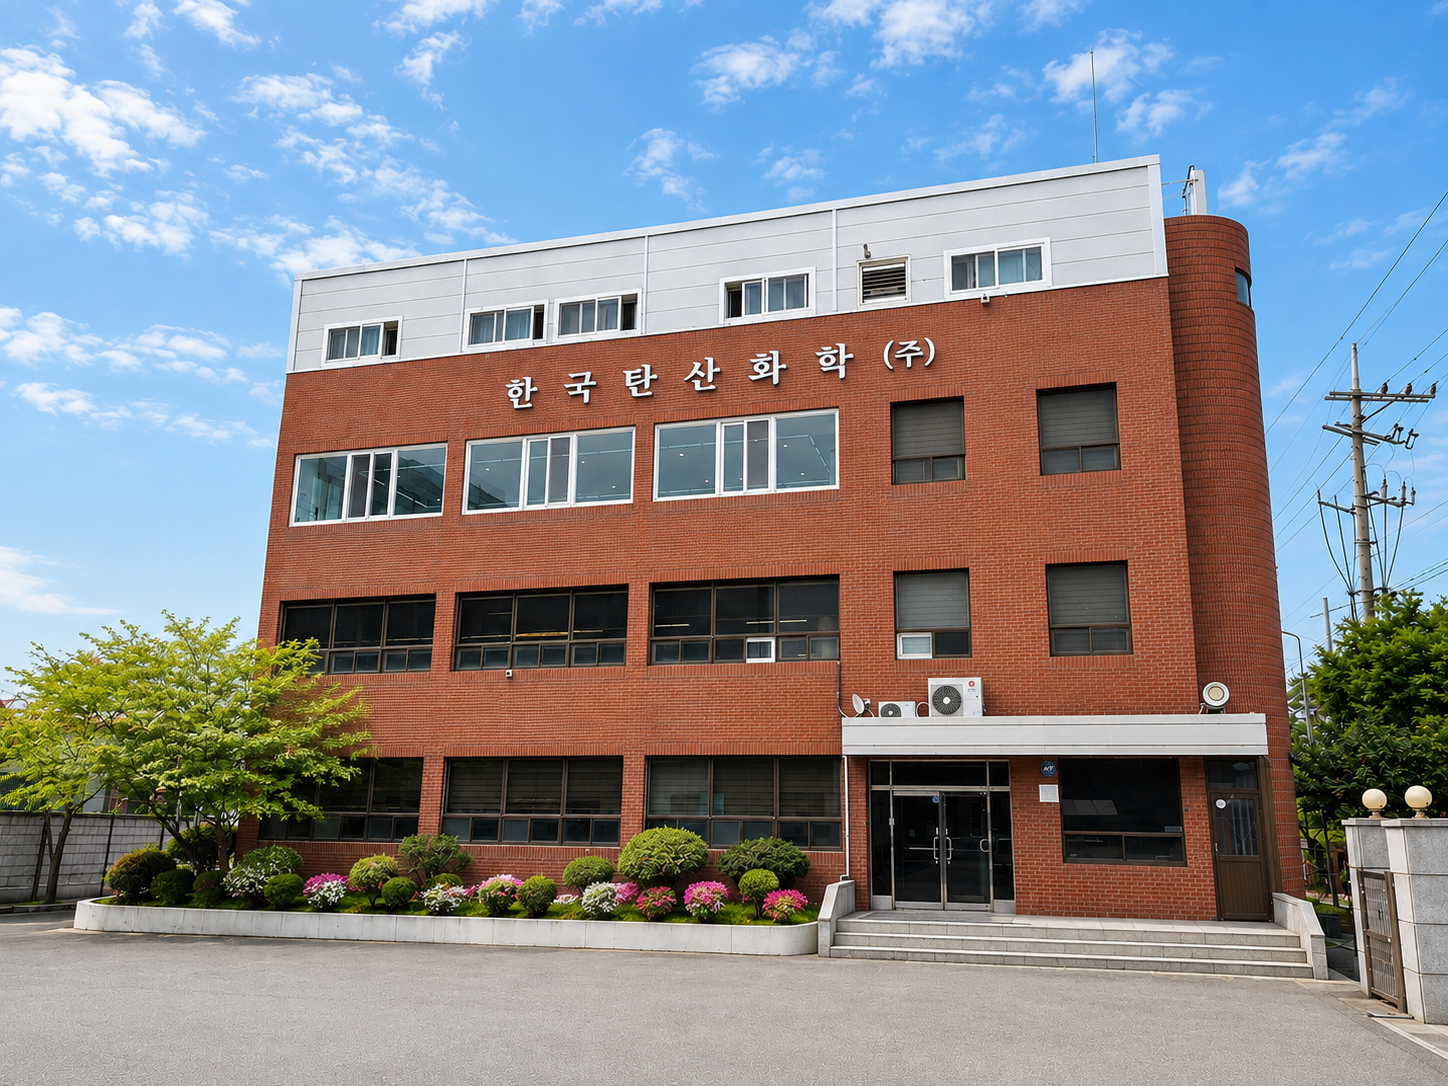
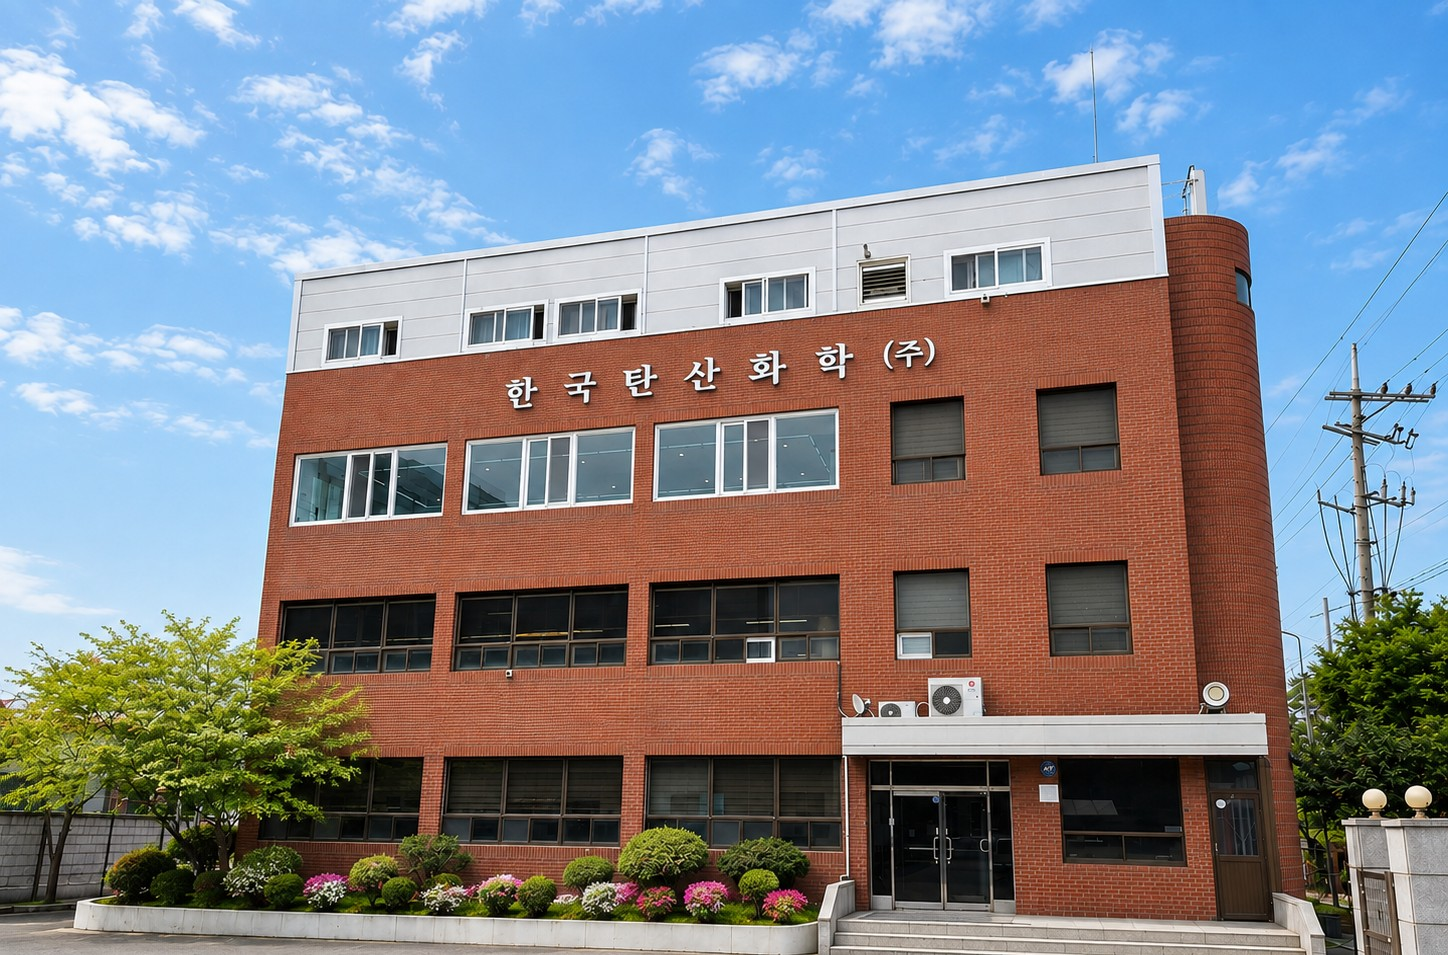
기업소개 01: 회사 사진 하단 아스팔트 여백 약 12% 크롭(참고이미지처럼 화단·출입구에서 마무리). company-hq.jpg ?v=20260826

diff --git a/company.html b/company.html
@@ -136,7 +136,7 @@
         </div>
         <div class="about2__right">
           <div class="about2__media">
-            <img src="assets/images/site/company-hq.jpg?v=20260819" alt="한국탄산화학㈜ 사옥 전경" loading="lazy">
+            <img src="assets/images/site/company-hq.jpg?v=20260826" alt="한국탄산화학㈜ 사옥 전경" loading="lazy">
           </div>
         </div>
       </div>
